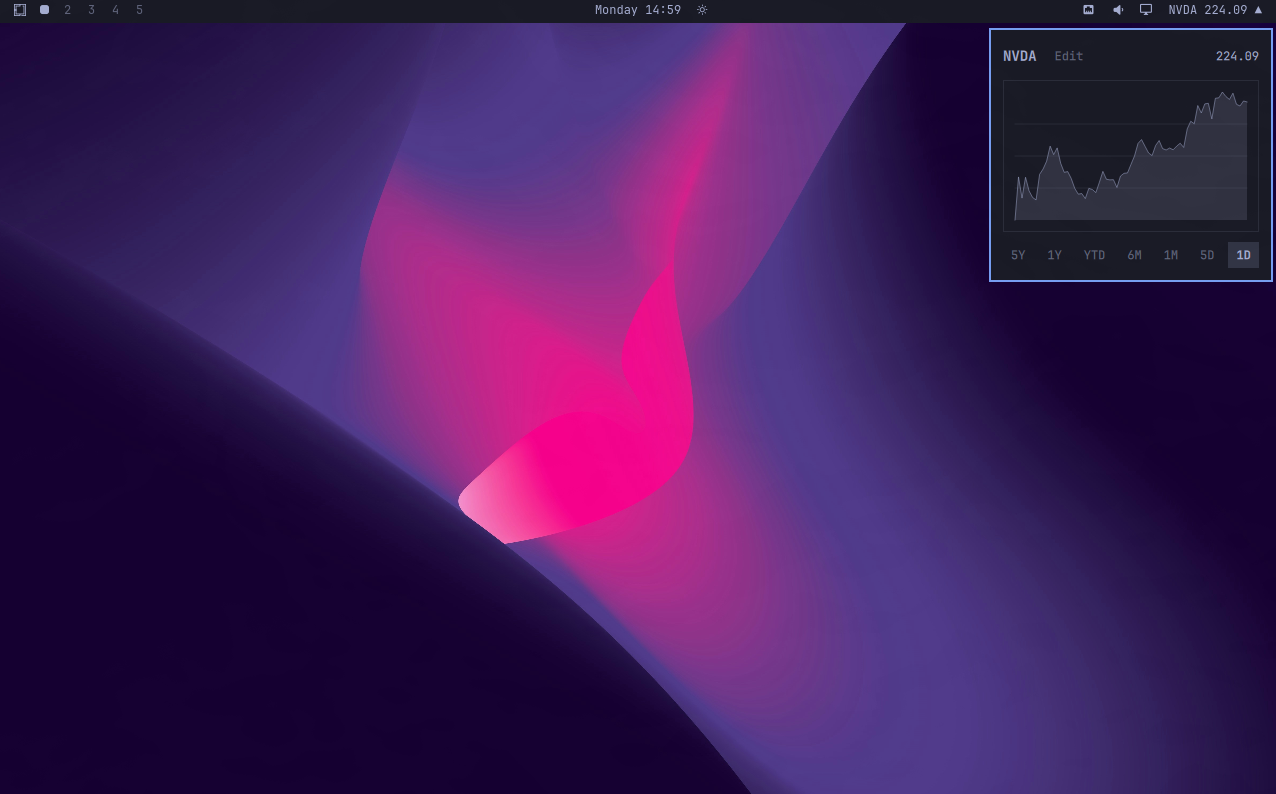
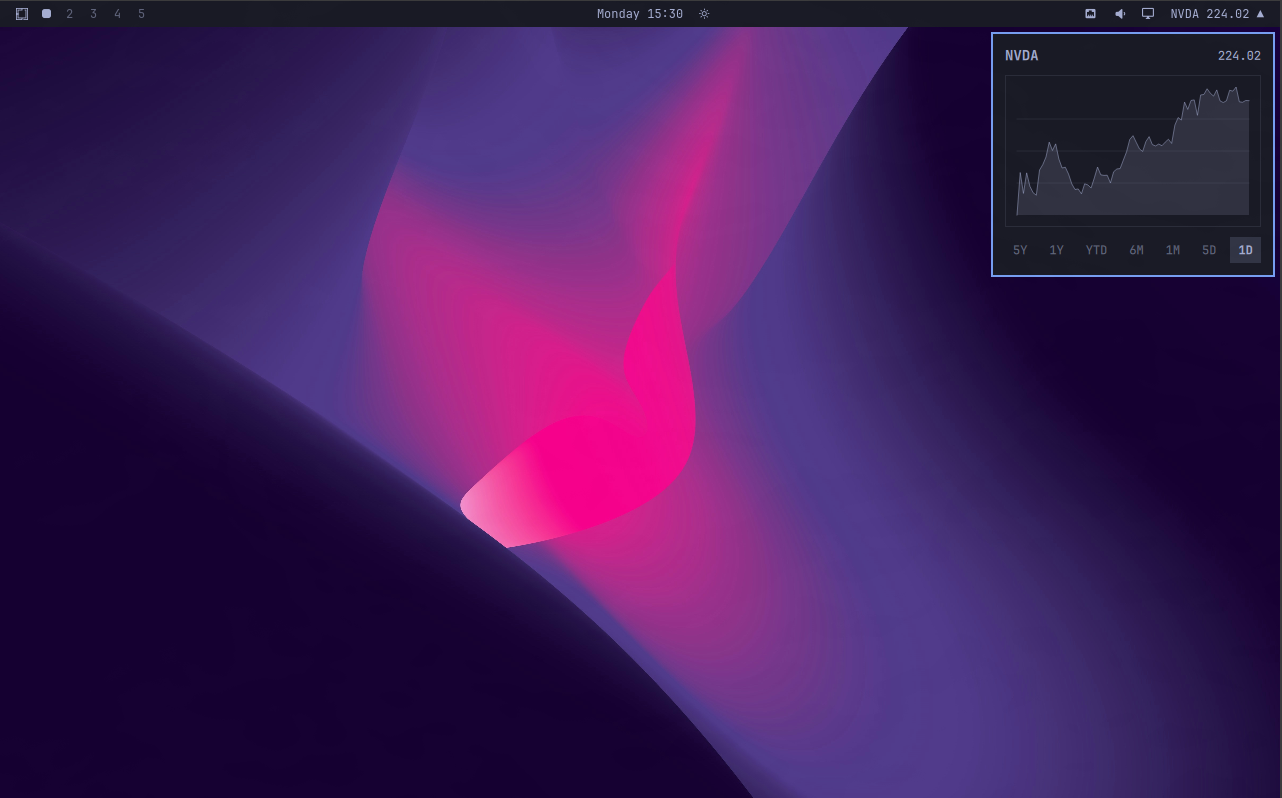
Omanews.

Changed region(s): [[0.7641, 0.0, 1.0, 0.3627], [0.1528, 0.0, 0.703, 0.0605], [0.0, 0.0, 0.1223, 0.0302]]

diff --git a/omanews/BarWidget.qml b/omanews/BarWidget.qml
@@ -1,0 +1,246 @@
+import QtQuick
+import Quickshell
+import Quickshell.Io
+import qs.Commons
+import qs.Ui
+
+BarWidget {
+  id: root
+  moduleName: "b.omanews"
+
+  property var headlines: []
+  property int headlineIndex: 0
+  property string feedOutput: ""
+  property string feedStatus: "idle"
+
+  readonly property int maxHeadlineWidth: Number(setting("maxWidth", 360))
+  readonly property int headlineLimit: Number(setting("limit", 15))
+  readonly property string feedUrl: String(setting("feedUrl", "https://news.google.com/rss?hl=en-US&gl=US&ceid=US:en"))
+  readonly property string currentHeadline: headlines.length > 0 ? headlines[validIndex(headlineIndex)] : ""
+  readonly property string statusText: feedStatus === "loading" ? "News loading" : "News"
+  readonly property string displayText: currentHeadline !== "" ? currentHeadline : statusText
+  readonly property string tooltip: currentHeadline !== "" ? currentHeadline : (feedStatus === "error" ? "Headlines unavailable" : "")
+
+  function validIndex(index) {
+    if (headlines.length <= 0) return 0
+    var n = Number(index)
+    if (!isFinite(n)) n = 0
+    n = Math.round(n) % headlines.length
+    return n < 0 ? n + headlines.length : n
+  }
+
+  function decodeEntity(entity) {
+    var value = String(entity || "")
+    if (value === "amp") return "&"
+    if (value === "apos") return "'"
+    if (value === "quot") return "\""
+    if (value === "lt") return "<"
+    if (value === "gt") return ">"
+
+    if (value.charAt(0) === "#") {
+      var code = value.charAt(1).toLowerCase() === "x"
+        ? parseInt(value.slice(2), 16)
+        : parseInt(value.slice(1), 10)
+      if (!isFinite(code) || code <= 0) return "&" + value + ";"
+      if (code <= 0xffff) return String.fromCharCode(code)
+      code -= 0x10000
+      return String.fromCharCode(0xd800 + (code >> 10), 0xdc00 + (code & 0x3ff))
+    }
+
+    return "&" + value + ";"
+  }
+
+  function decodeXmlText(value) {
+    var text = String(value || "")
+      .replace(/^<!\[CDATA\[/, "")
+      .replace(/\]\]>$/, "")
+      .replace(/<[^>]+>/g, "")
+
+    return text.replace(/&([^;\s]+);/g, function(match, entity) {
+      return decodeEntity(entity)
+    }).replace(/\s+/g, " ").trim()
+  }
+
+  function titleFromItem(item) {
+    var match = String(item || "").match(/<title[^>]*>([\s\S]*?)<\/title>/i)
+    return match && match[1] ? decodeXmlText(match[1]) : ""
+  }
+
+  function parseHeadlines(raw) {
+    var text = String(raw || "")
+    var next = []
+    var seen = {}
+    var itemRegex = /<item\b[\s\S]*?<\/item>/gi
+    var match
+
+    while ((match = itemRegex.exec(text)) !== null && next.length < headlineLimit) {
+      var title = titleFromItem(match[0])
+      var key = title.toLowerCase()
+      if (title !== "" && !seen[key]) {
+        seen[key] = true
+        next.push(title)
+      }
+    }
+
+    return next
+  }
+
+  function applyFeed(raw) {
+    var previousHeadline = currentHeadline
+    var next = parseHeadlines(raw)
+
+    if (next.length === 0) {
+      feedStatus = "error"
+      return
+    }
+
+    headlines = next
+    var previousIndex = next.indexOf(previousHeadline)
+    headlineIndex = previousIndex >= 0 ? previousIndex : 0
+    feedStatus = "ready"
+  }
+
+  function refresh() {
+    if (feedProc.running || feedUrl === "") return "busy"
+
+    feedOutput = ""
+    feedStatus = "loading"
+    feedProc.command = ["curl", "-fsSL", "--compressed", "--max-time", "8", "-A", "Mozilla/5.0", feedUrl]
+    feedProc.running = true
+    return "ok"
+  }
+
+  function showNextHeadline() {
+    if (headlines.length === 0) {
+      refresh()
+      return ""
+    }
+
+    headlineIndex = validIndex(headlineIndex + 1)
+    return currentHeadline
+  }
+
+  function showPreviousHeadline() {
+    if (headlines.length === 0) {
+      refresh()
+      return ""
+    }
+
+    headlineIndex = validIndex(headlineIndex - 1)
+    return currentHeadline
+  }
+
+  function searchCurrentHeadlineOnX() {
+    if (currentHeadline === "") return "no-headline"
+
+    Qt.openUrlExternally("https://x.com/search?q=" + encodeURIComponent(currentHeadline))
+    return "ok"
+  }
+
+  implicitWidth: root.vertical ? barSize : Math.min(maxHeadlineWidth, labelText.implicitWidth) + Style.space(17)
+  implicitHeight: barSize
+
+  Component.onCompleted: refresh()
+
+  IpcHandler {
+    target: "b.omanews"
+
+    function headline(): string {
+      return root.currentHeadline
+    }
+
+    function next(): string {
+      return root.showNextHeadline()
+    }
+
+    function nextHeadline(): string {
+      return root.showNextHeadline()
+    }
+
+    function previous(): string {
+      return root.showPreviousHeadline()
+    }
+
+    function previousHeadline(): string {
+      return root.showPreviousHeadline()
+    }
+
+    function searchX(): string {
+      return root.searchCurrentHeadlineOnX()
+    }
+
+    function openX(): string {
+      return root.searchCurrentHeadlineOnX()
+    }
+
+    function refresh(): string {
+      return root.refresh()
+    }
+  }
+
+  Process {
+    id: feedProc
+    stdout: StdioCollector {
+      waitForEnd: true
+      onStreamFinished: root.feedOutput = text
+    }
+    onExited: function(exitCode) {
+      if (exitCode === 0) root.applyFeed(root.feedOutput)
+      else if (root.headlines.length === 0) root.feedStatus = "error"
+      else root.feedStatus = "ready"
+
+      root.feedOutput = ""
+    }
+  }
+
+  Timer {
+    interval: 10 * 60 * 1000
+    running: true
+    repeat: true
+    onTriggered: root.refresh()
+  }
+
+  Item {
+    anchors.fill: parent
+    anchors.leftMargin: Style.space(8.5)
+    anchors.rightMargin: Style.space(8.5)
+    clip: true
+
+    Text {
+      id: labelText
+      anchors.verticalCenter: parent.verticalCenter
+      anchors.left: parent.left
+      width: parent.width
+      text: root.displayText
+      color: root.bar ? root.bar.barForeground : Color.foreground
+      font.family: root.bar ? root.bar.fontFamily : Style.font.family
+      font.pixelSize: Style.font.body
+      horizontalAlignment: root.vertical ? Text.AlignHCenter : Text.AlignLeft
+      elide: root.vertical ? Text.ElideNone : Text.ElideRight
+      rotation: root.vertical ? -90 : 0
+      transformOrigin: Item.Center
+      opacity: root.currentHeadline === "" ? 0.65 : 1
+
+      Behavior on color {
+        enabled: !root.bar || root.bar.foregroundAnimationEnabled
+        ColorAnimation { duration: 160 }
+      }
+    }
+  }
+
+  MouseArea {
+    anchors.fill: parent
+    hoverEnabled: true
+    acceptedButtons: Qt.LeftButton | Qt.RightButton | Qt.MiddleButton
+    cursorShape: Qt.PointingHandCursor
+
+    onClicked: function(mouse) {
+      if (mouse.button === Qt.RightButton) root.showPreviousHeadline()
+      else if (mouse.button === Qt.MiddleButton) root.searchCurrentHeadlineOnX()
+      else root.showNextHeadline()
+    }
+
+    onEntered: if (root.bar) root.bar.showTooltip(root, root.tooltip)
+    onExited: if (root.bar) root.bar.hideTooltip(root)
+  }
+}

diff --git a/README.md b/README.md
@@ -68,3 +68,37 @@ omarchy plugin add b.omastonk --from b --enable --yes
 omarchy plugin update b.omastonk
 ```
 
+## Omanews
+
+Omanews is a headline ticker for the Omarchy bar. It fetches top headlines with `curl` from Google News RSS every ten minutes and keeps the headlines in memory. Left-click advances to the next headline, right-click goes to the previous headline, and middle-click opens an X search for the current headline.
+
+Omanews registers the `b.omanews` IPC target for keyboard bindings. Available methods include `headline`, `next`, `nextHeadline`, `previous`, `previousHeadline`, `searchX`, `openX`, and `refresh`.
+
+## Install Omanews
+
+```bash
+omarchy plugin source add https://github.com/brianblakely/omarchy-plugins.git --as b
+omarchy plugin available
+omarchy plugin add b.omanews --from b --review --enable
+```
+
+For unattended installs:
+
+```bash
+omarchy plugin source add https://github.com/brianblakely/omarchy-plugins.git --as b --yes
+omarchy plugin add b.omanews --from b --enable --yes
+```
+
+## Update Omanews
+
+```bash
+omarchy plugin update b.omanews
+```
+
+## Omanews Shortcuts
+
+```lua
+o.bind("SUPER + F10", "Next headline", "omarchy-shell b.omanews next")
+o.bind("SUPER + ALT + F10", "Previous headline", "omarchy-shell b.omanews previous")
+o.bind("SUPER + CTRL + F10", "Search headline on X", "omarchy-shell b.omanews searchX")
+```
